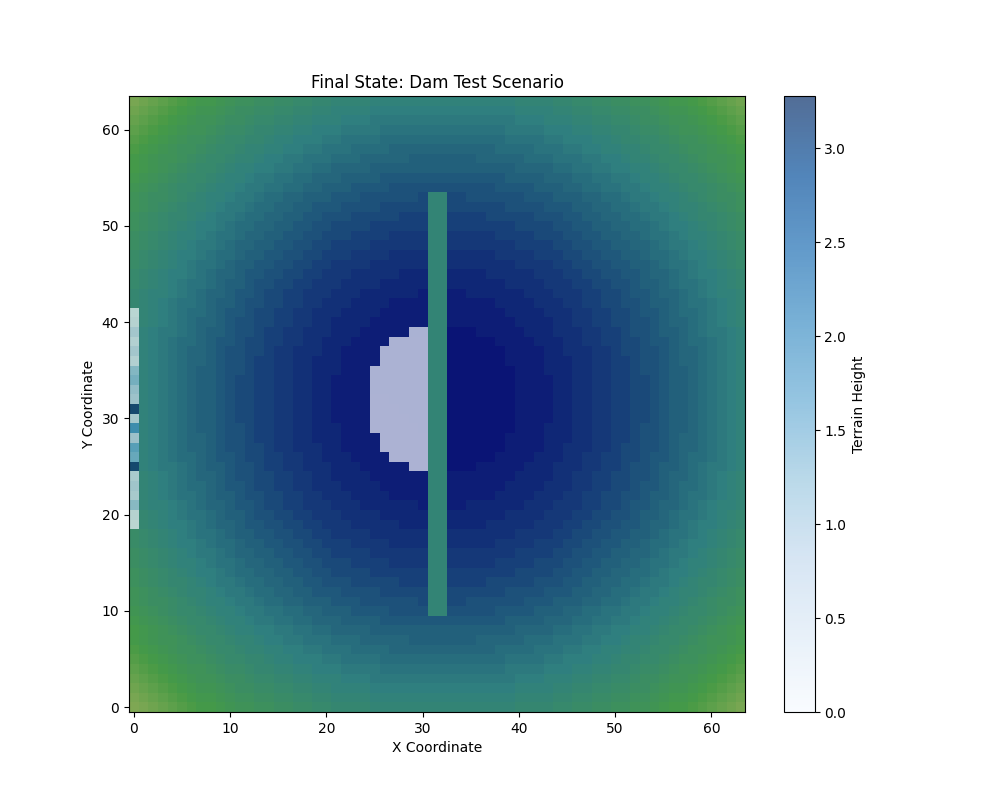
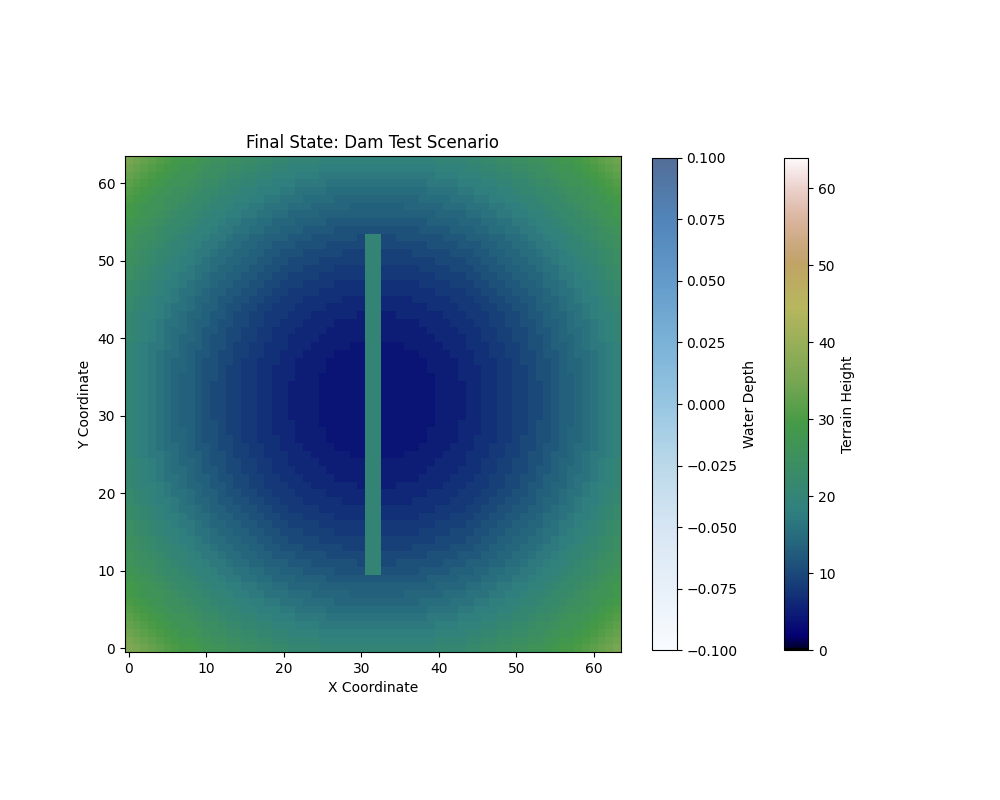
feat: Vectorize water flow and improve visualization
- Replaced the slow, iterative horizontal water flow calculation in `engine/physics.py` with a more efficient, vectorized NumPy implementation using `np.roll` for neighbor calculations.
- Fixed a bug in `engine/visualization.py` that prevented the water overlay from being displayed correctly.
- Added a dedicated colorbar for water depth to the visualization, making the simulation results easier to interpret.

diff --git a/engine/physics.py b/engine/physics.py
@@ -17,38 +17,48 @@ def simulation_step(terrain, water):
         water[:, :, z] -= flow_amount
         water[:, :, z-1] += flow_amount
 
-    # --- Horizontal Flow (Corrected to Conserve Water) ---
+    # --- Horizontal Flow (Vectorized) ---
+    # This implementation is significantly faster than the nested-loop version.
+    # It calculates the flow between a cell and its four horizontal neighbors.
+
     # A copy is needed to read from a consistent state within the step.
     water_copy = np.copy(water)
 
-    # Iterate over each cell that could have water
-    for x in range(1, dims[0]-1):
-        for y in range(1, dims[1]-1):
-            for z in range(dims[2]):
-                # Process only if the cell is air and has water
-                if water_copy[x, y, z] > 0.001 and terrain[x, y, z] == 0:
+    # Define masks for valid cells (air and containing water)
+    is_air = terrain == 0
+    has_water = water_copy > 0.001
+    can_flow = is_air & has_water
 
-                    # Find neighbors that are also air
-                    neighbors = []
-                    if terrain[x-1, y, z] == 0: neighbors.append((x-1, y, z))
-                    if terrain[x+1, y, z] == 0: neighbors.append((x+1, y, z))
-                    if terrain[x, y-1, z] == 0: neighbors.append((x, y-1, z))
-                    if terrain[x, y+1, z] == 0: neighbors.append((x, y+1, z))
+    # Calculate total water in each cell and its open neighbors
+    # and the number of open neighbors for averaging.
+    total_water = np.copy(water_copy)
+    neighbor_count = np.ones(water.shape) # Start with 1 for the cell itself
 
-                    if not neighbors:
-                        continue
+    # Right neighbor
+    flow_potential = can_flow & np.roll(is_air, -1, axis=0)
+    total_water += np.where(flow_potential, np.roll(water_copy, -1, axis=0), 0)
+    neighbor_count += np.where(flow_potential, 1, 0)
 
-                    # Sum the water in the current cell and its open neighbors
-                    all_cells = neighbors + [(x, y, z)]
-                    total_water = 0
-                    for nx, ny, nz in all_cells:
-                        total_water += water_copy[nx, ny, nz]
+    # Left neighbor
+    flow_potential = can_flow & np.roll(is_air, 1, axis=0)
+    total_water += np.where(flow_potential, np.roll(water_copy, 1, axis=0), 0)
+    neighbor_count += np.where(flow_potential, 1, 0)
 
-                    # Calculate the new, equalized water level
-                    avg_water = total_water / len(all_cells)
+    # Back neighbor
+    flow_potential = can_flow & np.roll(is_air, -1, axis=1)
+    total_water += np.where(flow_potential, np.roll(water_copy, -1, axis=1), 0)
+    neighbor_count += np.where(flow_potential, 1, 0)
 
-                    # Distribute the averaged water level to all participating cells.
-                    # This correctly conserves water by not capping the amount.
-                    # The downward flow will handle cells with > 1.0 water.
-                    for nx, ny, nz in all_cells:
-                        water[nx, ny, nz] = avg_water
+    # Front neighbor
+    flow_potential = can_flow & np.roll(is_air, 1, axis=1)
+    total_water += np.where(flow_potential, np.roll(water_copy, 1, axis=1), 0)
+    neighbor_count += np.where(flow_potential, 1, 0)
+
+    # Avoid division by zero
+    neighbor_count[neighbor_count == 0] = 1
+
+    # Calculate the new, equalized water level
+    avg_water = total_water / neighbor_count
+
+    # Apply the averaged water level to the cells that can flow
+    water[can_flow] = avg_water[can_flow]

diff --git a/engine/visualization.py b/engine/visualization.py
@@ -18,19 +18,20 @@ def visualize_world(terrain, water, title="World Simulation State"):
 
     water_depth = np.sum(water, axis=2)
 
-    plt.figure(figsize=(10, 8))
-    plt.title(title)
+    fig, ax = plt.subplots(figsize=(10, 8))
+    ax.set_title(title)
 
     # Display terrain heightmap
-    plt.imshow(heightmap.T, cmap='gist_earth', origin='lower', vmin=0, vmax=terrain.shape[2])
+    terrain_plot = ax.imshow(heightmap.T, cmap='gist_earth', origin='lower', vmin=0, vmax=terrain.shape[2])
+    fig.colorbar(terrain_plot, ax=ax, label="Terrain Height", shrink=0.8, aspect=20)
 
-    # Overlay water depth, masking cells with very little water
-    masked_water = np.ma.masked_where(water_depth <= 0.01, water_depth)
-    plt.imshow(masked_water.T, cmap='Blues', origin='lower', alpha=0.7, vmin=0)
+    # Overlay water depth
+    masked_water = np.ma.masked_where(water_depth <= 0.1, water_depth)
+    water_plot = ax.imshow(masked_water.T, cmap='Blues', origin='lower', alpha=0.7, vmin=0)
+    fig.colorbar(water_plot, ax=ax, label="Water Depth", shrink=0.8, aspect=20)
 
-    plt.xlabel("X Coordinate")
-    plt.ylabel("Y Coordinate")
-    plt.colorbar(label="Terrain Height")
+    ax.set_xlabel("X Coordinate")
+    ax.set_ylabel("Y Coordinate")
 
     # Save the figure instead of showing it directly
     # This is better for non-interactive environments
